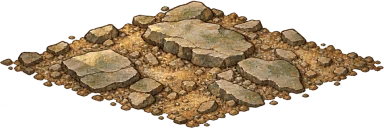
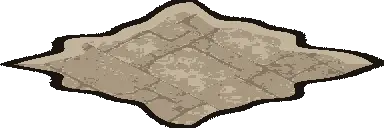
art: re-key the two rubble diamonds to the quarry spoil family
rubble.webp had no packer at all - it was committed straight out of the pass
that dressed the forest road - and it kept that pass's cold grey slabs over
desert ochre grit, which made the two diamonds the coldest thing on a board
whose road had already moved to the village's hand.

scripts/art/forest-rubble.ts paints the plate in the 3 quarry spoil key,
#a89880 over #857762 with the #c2b49c chip highlight as the thin pale rim on
the diamond's lit slopes and the uniform ink around a ragged silhouette. The
village paving lends the structure at three times the road's logical
frequency, so its flagstones arrive as chips rather than as whole slabs: the
difference between a heap and a floor.

The plate keeps its shipped 384x128 size, so both FOREST_RUBBLE_CELLS
placements and the scene's resolved-URL count are untouched.
Plate 21,456 -> 5,114 B.

diff --git a/scripts/art/forest-rubble.ts b/scripts/art/forest-rubble.ts
@@ -1,0 +1,116 @@
+/**
+ * Pack the forest road's two rubble diamonds.
+ *
+ *   node --import tsx scripts/art/forest-rubble.ts
+ *
+ * `rubble.webp` had no packer at all: it was committed straight out of the
+ * generation pass that dressed the forest road (`bd70d2d`), and it kept that
+ * pass's cold grey slabs over desert ochre grit. Once W2 re-keyed the route and
+ * its verges to the village's hand, the two diamonds this plate is drawn into —
+ * cells (7,3) and (8,9) — were the coldest thing on the board.
+ *
+ * The plate is now painted from `forest-village-material.ts` in the DL-2 §3
+ * **quarry spoil / rubble** key: `#a89880` over `#857762` with a `#c2b49c` chip
+ * highlight, the bible's `#1b1410` ink around the silhouette and the chip
+ * highlight as the thin pale rim inside its lit edge. The village paving's own
+ * flagstone rhythm supplies the broken-slab structure, so the spoil is the same
+ * stone the village is paved with, broken — which is what a quarry road's spoil
+ * heap is.
+ *
+ * The plate keeps its shipped 384x128 size and its diamond silhouette, so the
+ * two `FOREST_RUBBLE_CELLS` placements in `forestRoad.ts` are untouched and the
+ * scene's resolved-URL count against `SCENE_IMAGE_CAP` does not move.
+ */
+import { mkdirSync, writeFileSync } from 'node:fs';
+import { FOREST_RUBBLE_CELLS } from '../../src/content/scenes/forestRoad';
+import { tileNoise } from '../../src/render/painters/shapes';
+import { newImage, setPixel } from './lib/image';
+import type { Image } from './lib/image';
+import { encodeWebp } from './lib/webp';
+import { FOREST_GROUND_QUALITY, loadForestMaterial } from './forest-village-material';
+import type { ForestMaterial } from './forest-village-material';
+
+/** The shipped plate, and the scene box it is drawn into, from `forestRoad.ts`. */
+export const FOREST_RUBBLE_PLATE = { width: 384, height: 128 } as const;
+export const FOREST_RUBBLE_BOX = { width: 128, height: 128 / 3 } as const;
+/**
+ * How ragged the heap's outline is, as a fraction of the diamond's half-width.
+ * A spoil heap has no drawn edge; what it has is a scatter of chip that thins
+ * out, so the silhouette wanders and the outermost band is broken up.
+ */
+export const RUBBLE_RAGGED = 0.1;
+/** How many chips of village paving fit across one cell of spoil. */
+export const RUBBLE_GRAIN = 3;
+/** Ink and rim, in plate pixels: 2 px and 3 px of a 64 px tile, at this scale. */
+const SCALE = FOREST_RUBBLE_PLATE.width / FOREST_RUBBLE_BOX.width;
+const INK_PX = 2 * SCALE;
+const RIM_PX = 3 * SCALE;
+
+export const FOREST_RUBBLE_OUTPUT = 'public/art/maps/forest-scene/rubble.webp';
+
+/**
+ * The heap's edge at a point, as a signed distance in plate pixels: positive
+ * inside. The diamond is the plate's own, so the piece registers exactly where
+ * it registers today; the raggedness is seeded value noise around its rim.
+ */
+export function rubbleEdge(px: number, py: number): number {
+  const u = (px + 0.5) / (FOREST_RUBBLE_PLATE.width / 2) - 1;
+  const v = (py + 0.5) / (FOREST_RUBBLE_PLATE.height / 2) - 1;
+  const radial = Math.abs(u) + Math.abs(v);
+  const angle = Math.atan2(v, u);
+  const ragged =
+    RUBBLE_RAGGED * (0.6 * Math.sin(angle * 7.3 + 1.7) + 0.4 * Math.sin(angle * 13.1 + 4.3) + 0.2);
+  // Back into plate pixels along the shorter axis, so the ink reads the same
+  // width on both of the diamond's slopes.
+  return (1 + ragged - radial) * (FOREST_RUBBLE_PLATE.height / 2);
+}
+
+export function packRubble(material: ForestMaterial): Image {
+  const image = newImage(FOREST_RUBBLE_PLATE.width, FOREST_RUBBLE_PLATE.height);
+  // The first rubble cell's own world box, so the spoil's grain is sampled in
+  // exactly the logical space the road beside it is sampled in and the two
+  // materials are the same size on screen.
+  const cell = FOREST_RUBBLE_CELLS[0] ?? { x: 0, y: 0 };
+  const box = {
+    x: 768 + (cell.x - cell.y) * 64 - 64,
+    y: (cell.x + cell.y + 1) * 32 - FOREST_RUBBLE_BOX.height,
+  };
+  for (let py = 0; py < image.height; py++)
+    for (let px = 0; px < image.width; px++) {
+      const edge = rubbleEdge(px, py);
+      if (edge <= 0) continue;
+      const worldX = box.x + (px + 0.5) / SCALE;
+      const worldY = box.y + (py + 0.5) / SCALE;
+      const dx = (worldX - 768) / 64,
+        dy = worldY / 32;
+      // Spoil is broken paving, so it is sampled at three times the road's
+      // logical frequency: the village's flagstones arrive as chips rather than
+      // as whole slabs, which is the difference between a heap and a floor.
+      const x = ((dx + dy) / 2) * RUBBLE_GRAIN,
+        y = ((dy - dx) / 2) * RUBBLE_GRAIN;
+      // The outermost chip thins out rather than ending on a line: a hashed
+      // share of the last pixel of the rim is dropped, so the heap scatters.
+      if (edge < 1 && tileNoise(px, py, 37) > edge) continue;
+      // The lit side of this projection is up-screen, which on a diamond is the
+      // top two slopes; the pale chip highlight is the rim there and nowhere.
+      const lit = py < FOREST_RUBBLE_PLATE.height / 2;
+      const rgb =
+        edge < INK_PX
+          ? material.ink
+          : lit && edge < INK_PX + RIM_PX
+            ? material.rimOf('spoil')
+            : material.colour('spoil', x, y);
+      setPixel(image, px, py, [rgb[0], rgb[1], rgb[2], 255]);
+    }
+  return image;
+}
+
+export async function main(): Promise<void> {
+  const image = packRubble(await loadForestMaterial());
+  mkdirSync('public/art/maps/forest-scene', { recursive: true });
+  const bytes = await encodeWebp(image, FOREST_GROUND_QUALITY, true);
+  writeFileSync(FOREST_RUBBLE_OUTPUT, bytes);
+  console.log({ width: image.width, height: image.height, bytes: bytes.length });
+}
+
+if (process.argv[1]?.endsWith('forest-rubble.ts')) await main();

diff --git a/scripts/art/forest-rubble.test.ts b/scripts/art/forest-rubble.test.ts
@@ -1,0 +1,57 @@
+import { readFileSync } from 'node:fs';
+import { expect, it } from 'vitest';
+import { FOREST_RUBBLE_CELLS } from '../../src/content/scenes/forestRoad';
+import { toHex } from './lib/image';
+import { encodeWebp } from './lib/webp';
+import {
+  FOREST_GROUND_QUALITY,
+  FOREST_INK,
+  FOREST_PIECE_TONES,
+  loadForestMaterial,
+} from './forest-village-material';
+import { FOREST_RUBBLE_OUTPUT, FOREST_RUBBLE_PLATE, packRubble, rubbleEdge } from './forest-rubble';
+import { measure } from './forest-ground-measure';
+
+const material = await loadForestMaterial();
+const image = packRubble(material);
+
+it('ships the rubble plate the packer builds, at its registered size', async () => {
+  // The two placements in `forestRoad.ts` scale this plate into their own
+  // cells, so its size is registration: changing it would move the diamonds.
+  expect({ width: image.width, height: image.height }).toEqual({
+    width: FOREST_RUBBLE_PLATE.width,
+    height: FOREST_RUBBLE_PLATE.height,
+  });
+  expect(FOREST_RUBBLE_CELLS).toHaveLength(2);
+  expect(Buffer.from(await encodeWebp(image, FOREST_GROUND_QUALITY, true))).toEqual(
+    readFileSync(FOREST_RUBBLE_OUTPUT),
+  );
+});
+
+it('paints only the quarry-spoil key, its chip highlight and the ink', () => {
+  const allowed = new Set<string>([FOREST_INK, ...Object.values(FOREST_PIECE_TONES.spoil)]);
+  const seen = new Set<string>();
+  for (let i = 0; i < image.data.length; i += 4) {
+    if ((image.data[i + 3] ?? 0) === 0) continue;
+    seen.add(toHex([image.data[i] ?? 0, image.data[i + 1] ?? 0, image.data[i + 2] ?? 0]));
+  }
+  expect([...seen].filter((hex) => !allowed.has(hex))).toEqual([]);
+  for (const hex of Object.values(FOREST_PIECE_TONES.spoil))
+    expect(seen, `${hex} is painted`).toContain(hex);
+  expect(seen, 'the silhouette is inked').toContain(FOREST_INK);
+});
+
+it('keeps a ragged diamond silhouette and carries no baked gradient', () => {
+  // A heap with a ruled edge is the defect the old plate had; the outline
+  // wanders, and the plate's corners stay clear so the diamond still reads.
+  expect(rubbleEdge(2, 2)).toBeLessThan(0);
+  expect(rubbleEdge(FOREST_RUBBLE_PLATE.width - 3, FOREST_RUBBLE_PLATE.height - 3)).toBeLessThan(0);
+  expect(rubbleEdge(FOREST_RUBBLE_PLATE.width / 2, FOREST_RUBBLE_PLATE.height / 2)).toBeGreaterThan(
+    0,
+  );
+  const m = measure(image);
+  // The plate is smaller than one 128 px measuring window in height, so the
+  // span is read across the widest row of windows it can hold.
+  expect(m.span).toBeLessThan(1.25);
+  expect(m.opaque).toBeGreaterThan(20_000);
+});
